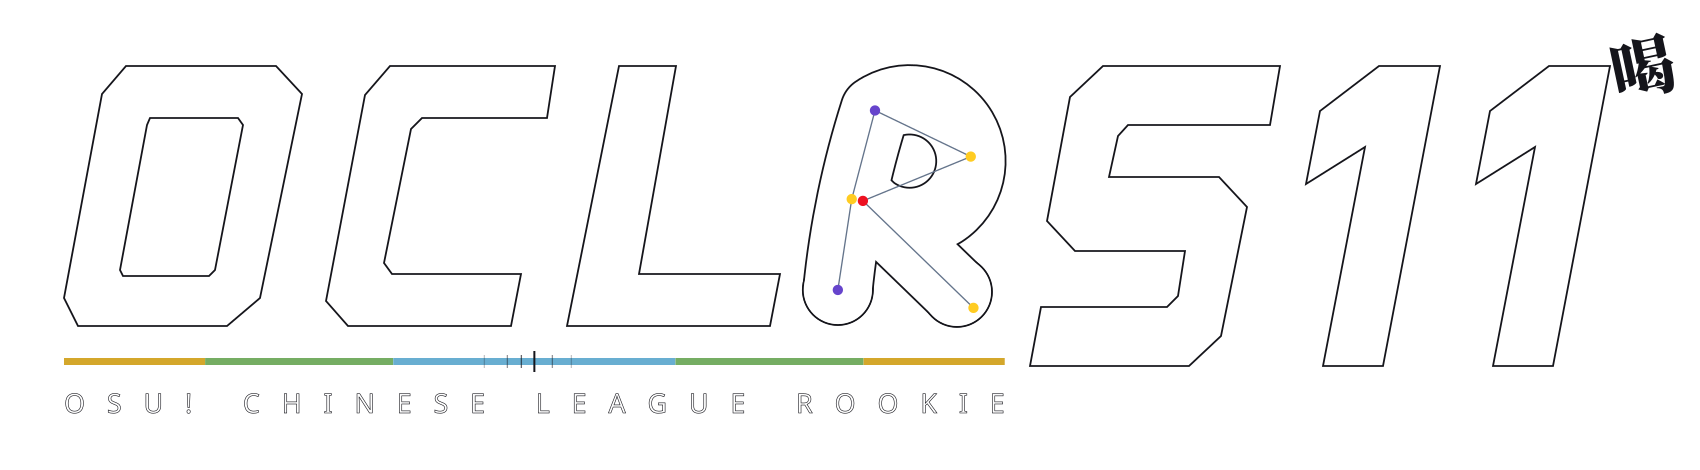
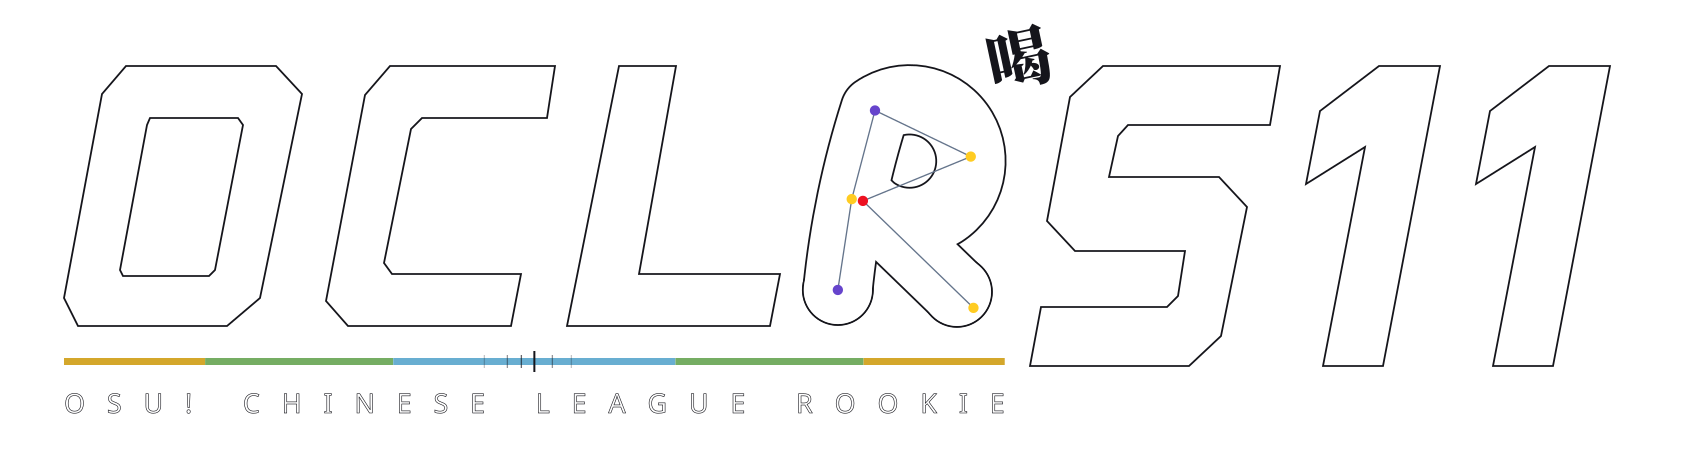
design(home): place Katu above the slider R

Changed region(s): [[0.9353, 0.0596, 0.9976, 0.2085], [0.5612, 0.0596, 0.6235, 0.1787]]

diff --git a/design/home-visual/revision-05/index.html b/design/home-visual/revision-05/index.html
@@ -4,7 +4,7 @@
   </style></head>
 <body>
 <header><div><p class="eyebrow">OCLR / SHAPE STUDY · REVISION 05</p><h1>棱角 OCL / S11 · 保留滑条 R</h1></div><nav class="links" aria-label="稿件"><a href="oclr-s11-angular.svg" download>下载透明 SVG ↗</a><a href="shape-board.png" download>下载预览 PNG ↗</a><a href="../revision-04/">保留稿 R04 ↗</a></nav></header>
-<main><figure class="stage"><img src="oclr-s11-angular.svg" width="1700" height="470" alt="棱角分明的 OCL 和 S11 透明轮廓，R 保留原有弧形与控制点连线，右上角为原字形的喝"></figure>
+<main><figure class="stage"><img src="oclr-s11-angular.svg" width="1700" height="470" alt="棱角分明的 OCL 和 S11 透明轮廓，R 保留原有弧形与控制点连线，R 的右上角为原字形的喝"></figure>
 <div class="notes"><p><strong>OCL / S11</strong> · 切角、斜切笔画，内部透明</p><p><strong>R</strong> · 沿用当前轮廓、控制点和连线</p><p><strong>喝</strong> · 沿用 R03 原字形</p></div></main>
 <footer>R05 为独立新稿，R04 完整保留。<a href="README.md">来源与构成说明</a> · <a href="../revision-04/">R04 花体与笔刷版</a> · <a href="../revision-03/">R03 节奏构成版</a></footer>
 </body></html>

diff --git a/design/home-visual/revision-05/compose.py b/design/home-visual/revision-05/compose.py
@@ -16,7 +16,7 @@ svg = ET.Element(f'{{{NS}}}svg', {
 ET.SubElement(svg, f'{{{NS}}}title', id='title').text = 'OCLR S11 · R05 棱角形状稿'
 ET.SubElement(svg, f'{{{NS}}}desc', id='desc').text = (
     'OCL 与 S11 采用切角、斜切笔画构成，内部透明。'
-    'R 沿用上一稿的轮廓、六个控制点与连线。右上角喝沿用 R03 字形。'
+    'R 沿用上一稿的轮廓、六个控制点与连线。R 的右上角喝沿用 R03 字形。'
 )
 
 
@@ -51,10 +51,10 @@ letter('season-one-b', 1470, 66, one)
 old = ET.parse(ROOT.parent / 'revision-03/oclr-s11-rhythm.svg').getroot()
 katu = next(e for e in old.iter() if e.get('id') == 'judgement-katu')
 glyph = copy.deepcopy(katu.find(f'{{{NS}}}g/{{{NS}}}path'))
-glyph.set('transform', 'translate(1610 92) scale(.064 -.064)')
+glyph.set('transform', 'translate(986 83) scale(.064 -.064)')
 badge = ET.SubElement(svg, f'{{{NS}}}g', {
     'id': 'judgement-katu', 'fill': 'currentColor',
-    'transform': 'rotate(-12 1640 64)',
+    'transform': 'rotate(-12 1016 55)',
 })
 badge.append(glyph)
 

diff --git a/design/home-visual/revision-05/README.md b/design/home-visual/revision-05/README.md
@@ -4,7 +4,7 @@
 
 - OCL 与 S11：直接以 SVG 直线闭合路径绘制，统一斜切笔画与切角；内部透明，不使用替代字体或位图描摹。OCL 字高仍为 260；S11 独立横排于右侧。
 - R：从 R04 最终 SVG 逐节点复制完整 `R-reference-slider`，包括轮廓、原坐标控制点和连线；位置、大小、遮罩与所有几何属性不变。沿用 [R 的截图重建记录](../revision-04/sources/R-GEOMETRY.md)。
-- 喝：直接复用 R03 `judgement-katu` 中的原字形路径，只改变位置、字号及旋转，放在右上角。该字形为 Noto Serif CJK Black，沿用 [SIL OFL 授权](../revision-02/FONT-LICENSE.txt)。没有更换为另一个汉字字体。「喝」保持实心以保留小字号笔画识别；主字标内部仍透明。
+- 喝：直接复用 R03 `judgement-katu` 中的原字形路径，只改变位置、字号及旋转，放在 R 的右上角。该字形为 Noto Serif CJK Black，沿用 [SIL OFL 授权](../revision-02/FONT-LICENSE.txt)。没有更换为另一个汉字字体。「喝」保持实心以保留小字号笔画识别；主字标内部仍透明。
 - 准度条与英文全名：逐节点复用 R04，位置不变。英文全名的 Noto Sans 授权见 [R04 字体来源](../revision-04/sources/SHAPE-SOURCES.md)。
 
 ## 文件与验证
